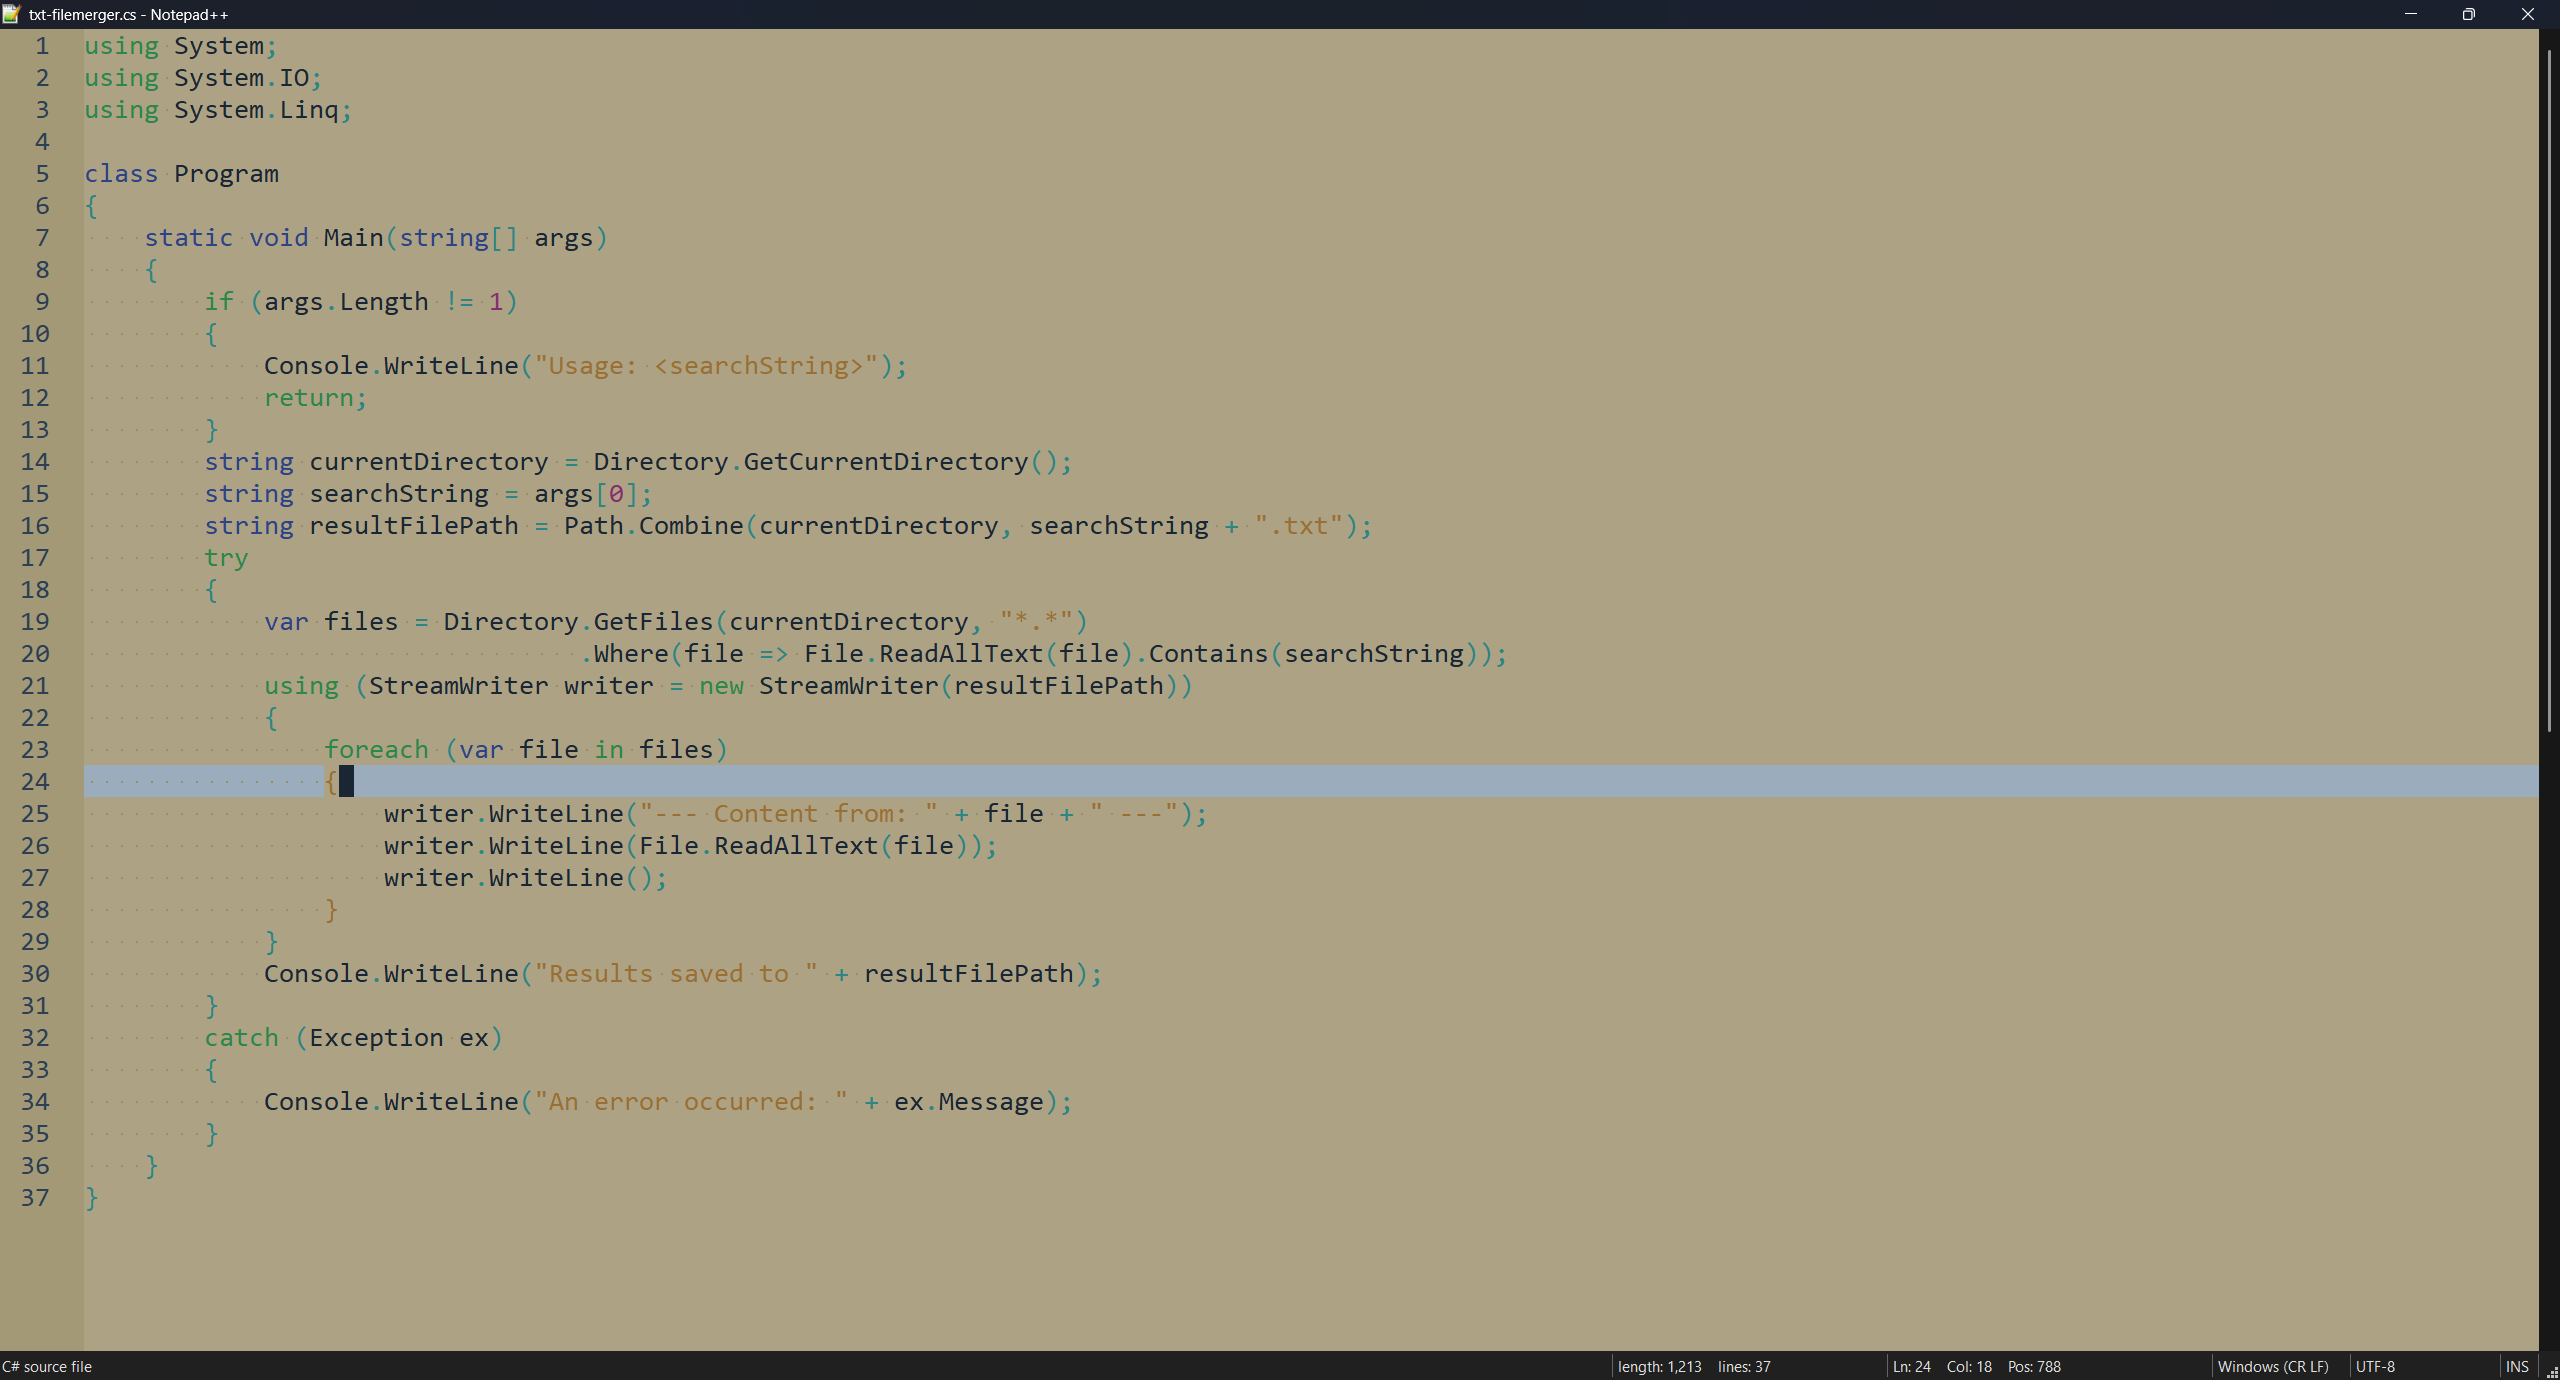
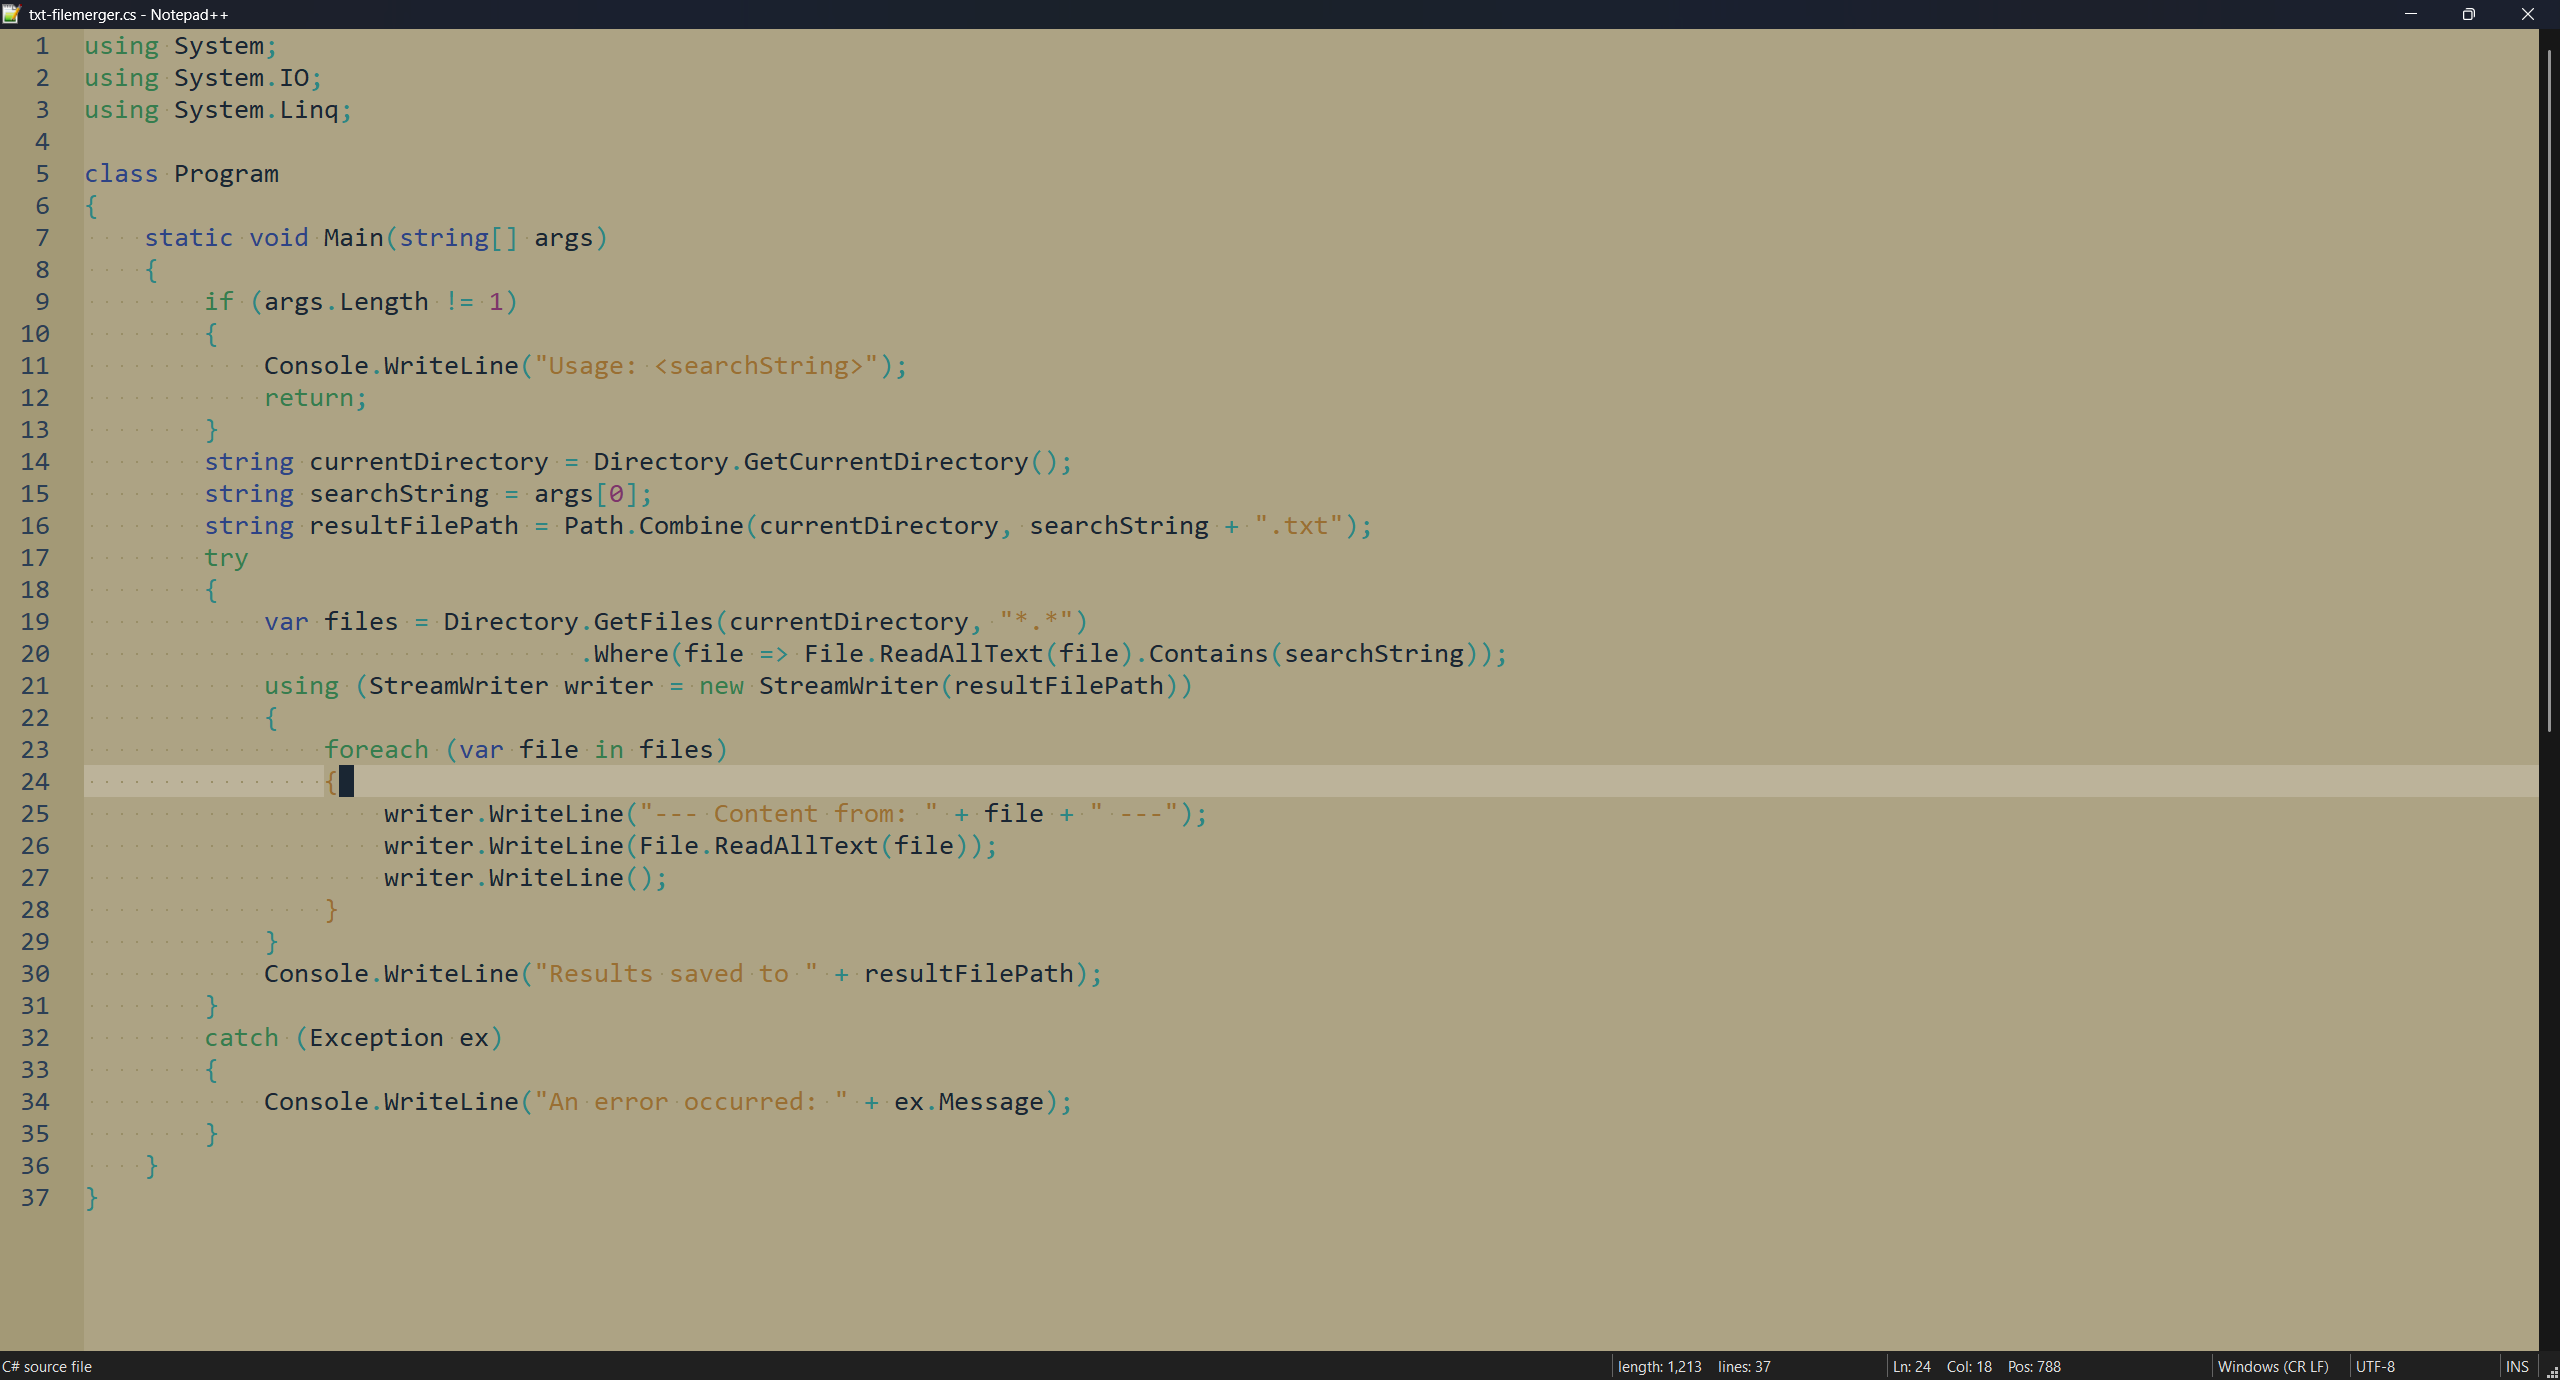
update parchment theme

Changed region(s): [[0.0312, 0.5297, 1.0, 0.592]]

diff --git a/scheme_files/other/parchment.html b/scheme_files/other/parchment.html
@@ -57,18 +57,18 @@ this template is meant as a reference sheet for your color theme
 			</tr>
 			<tr>
 				<td>Highlight - 1st level<br><a>UI: alternative marks</a></td>
-				<td>#c6cfd9</td>
-				<td style="background-color:#c6cfd9;"></td>
+				<td>#d8d3c5</td>
+				<td style="background-color:#d8d3c5;"></td>
 			</tr>	
 			<tr>
 				<td>Highlight - 2nd level<br><a>UI: selection, search marks, fold marks</a></td>
-				<td>#afbcca</td>
-				<td style="background-color:#afbcca;"></td>
+				<td>#cac3af</td>
+				<td style="background-color:#cac3af;"></td>
 			</tr>	
 			<tr>
 				<td>Highlight - 3rd level<br><a>UI: current line</a></td>
-				<td>#9bacbc</td>
-				<td style="background-color:#9bacbc;"></td>
+				<td>#bcb39a</td>
+				<td style="background-color:#bcb39a;"></td>
 			</tr>
 		</table>
 		<br>
@@ -83,8 +83,8 @@ this template is meant as a reference sheet for your color theme
 			<tr>
 				<td>syntax 1<br><a>UI: change history modified, alert, error
                 <br>SYNTAX: macro, methods, functions, symbols (question mark, shebang, etc.)<br>TERMINAL: red</a></td>
-				<td>#862d4a</td>
-				<td style="background-color:#862d4a;"></td>
+				<td>#7d364e</td>
+				<td style="background-color:#7d364e;"></td>
 			</tr>
 			<tr>
 				<td>syntax 2<br><a>UI: change history revert origin, change history revert modified, warnings
@@ -100,8 +100,8 @@ this template is meant as a reference sheet for your color theme
 			<tr>
 				<td>syntax 4<br><a>UI: change history saved
                 <br>SYNTAX: conditionals, keywords, tags, commands, instructions<br>TERMINAL: green</a></td>
-				<td>#2d864a</td>
-				<td style="background-color:#2d864a;"></td>
+				<td>#367d4e</td>
+				<td style="background-color:#367d4e;"></td>
 			</tr>
 			<tr>
 				<td>syntax 5<br><a>SYNTAX: keys, types, class, groups, sections, preprocessor<br>TERMINAL: blue</a></td>
@@ -110,8 +110,8 @@ this template is meant as a reference sheet for your color theme
 			</tr>
 			<tr>
 				<td>syntax 6<br><a>SYNTAX: qualifier, numbers, booleans, attributes<br>TERMINAL: magenta (purple)</a></td>
-				<td>#862d70</td>
-				<td style="background-color:#862d70;"></td>
+				<td>#7d366b</td>
+				<td style="background-color:#7d366b;"></td>
 			</tr>
 		</table>
 		<br>
